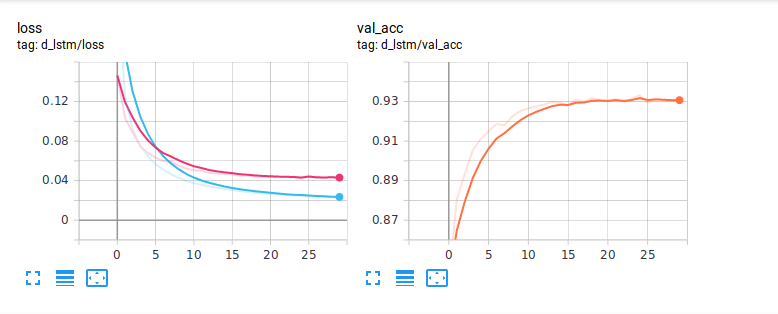
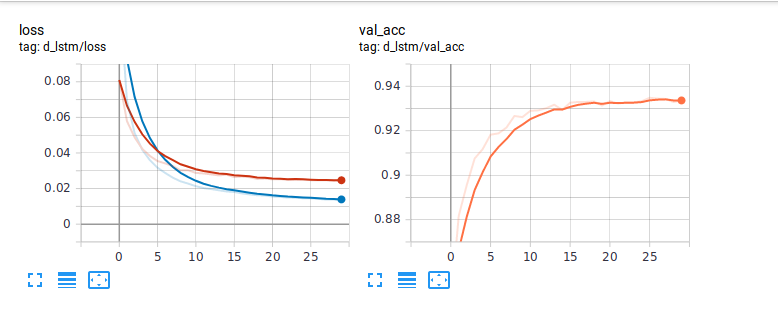
results

diff --git a/knowledge_distillation/lstm_trainer.py b/knowledge_distillation/lstm_trainer.py
@@ -195,7 +195,7 @@ class LSTMDistilled(_LSTMBase):
         super(LSTMDistilled, self).__init__(settings, logger)
         self.criterion_mse = torch.nn.MSELoss()
         self.criterion_ce = torch.nn.CrossEntropyLoss()
-        self.a = 0.0
+        self.a = 0.5
 
     def loss(self, output, bert_prob, real_label):
         return self.a * self.criterion_ce(output, real_label) + (1 - self.a) * self.criterion_mse(output, bert_prob)
